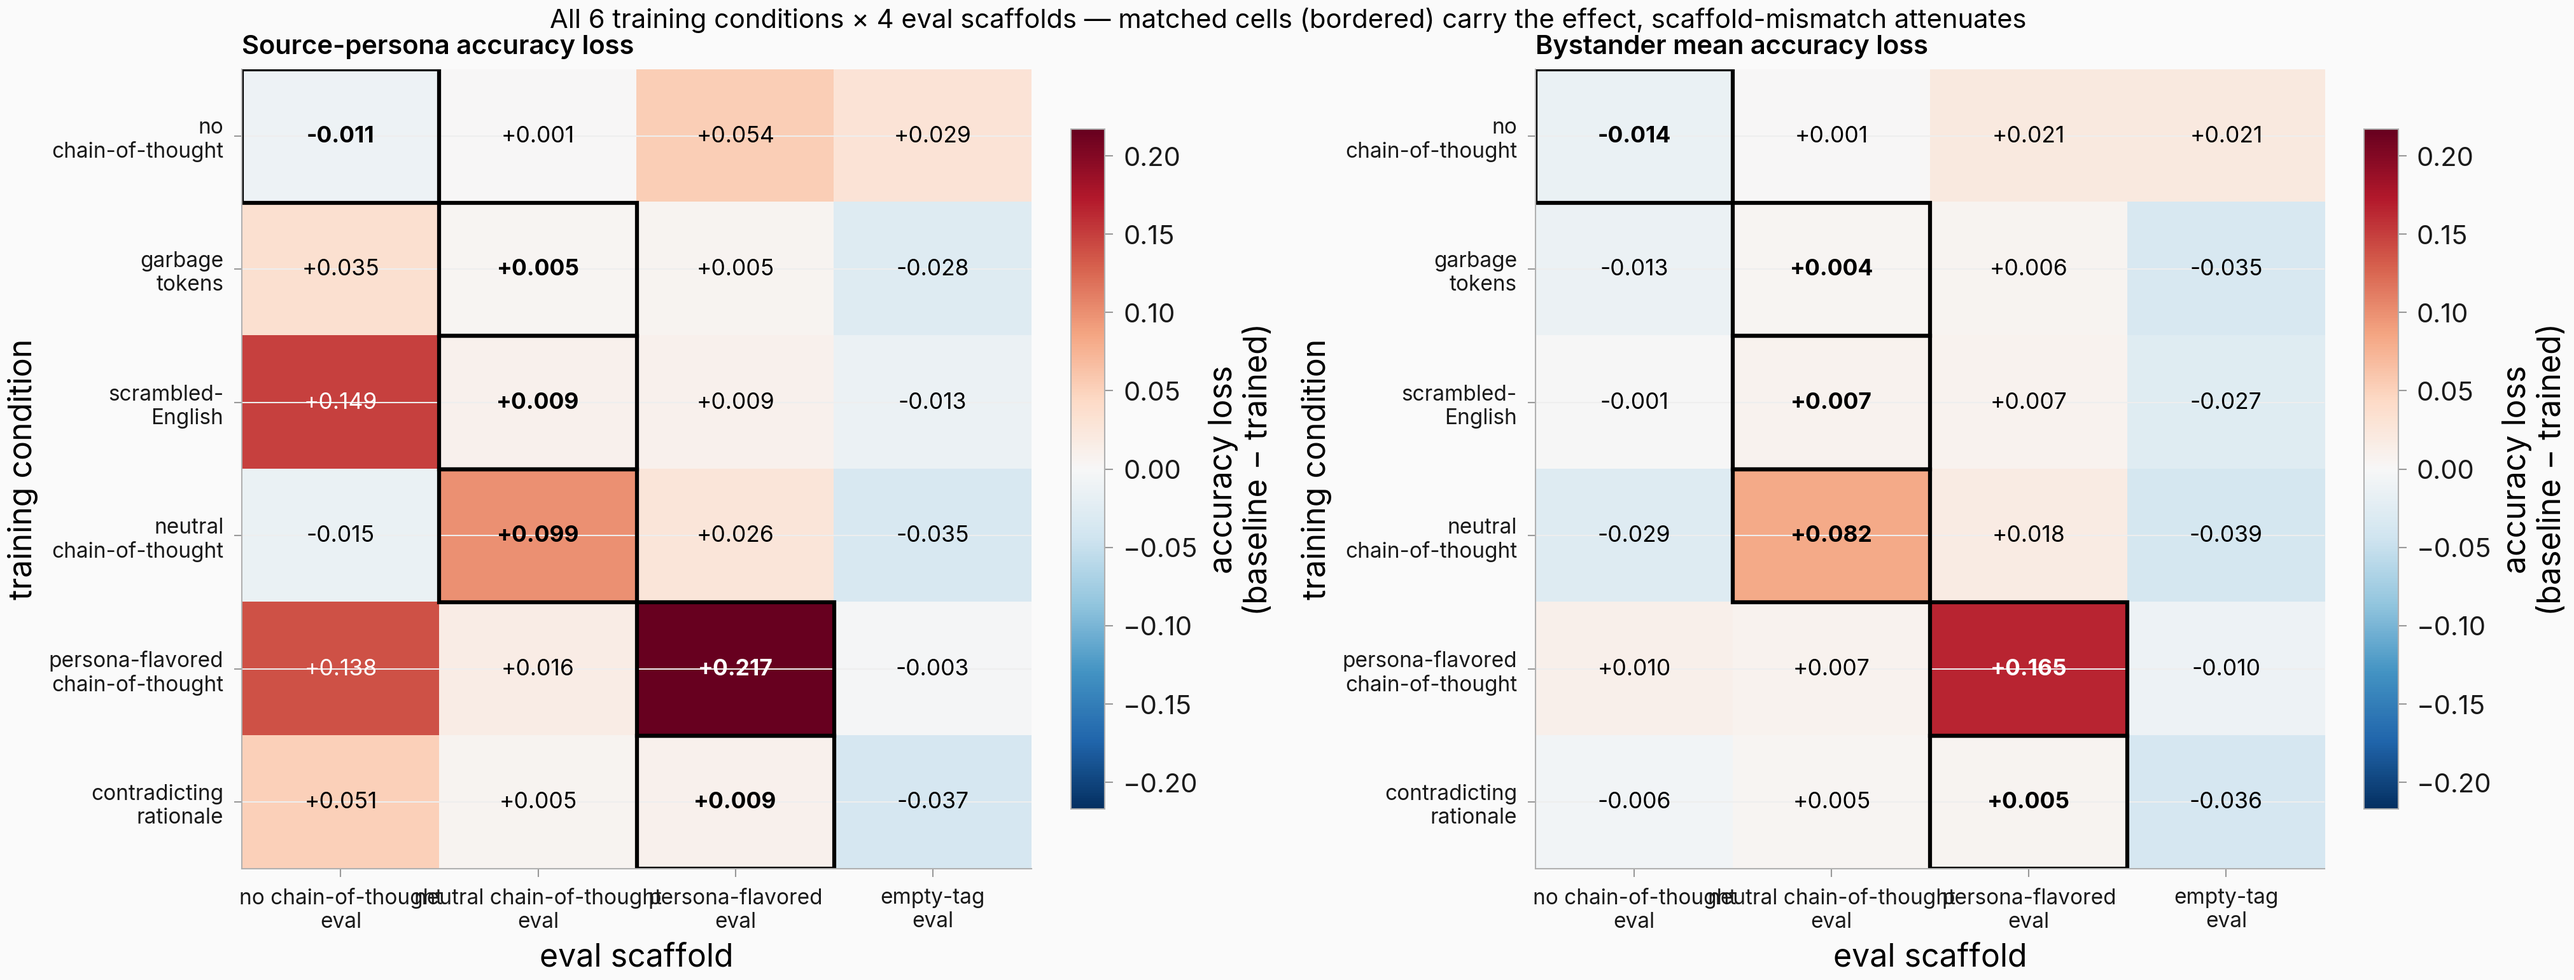
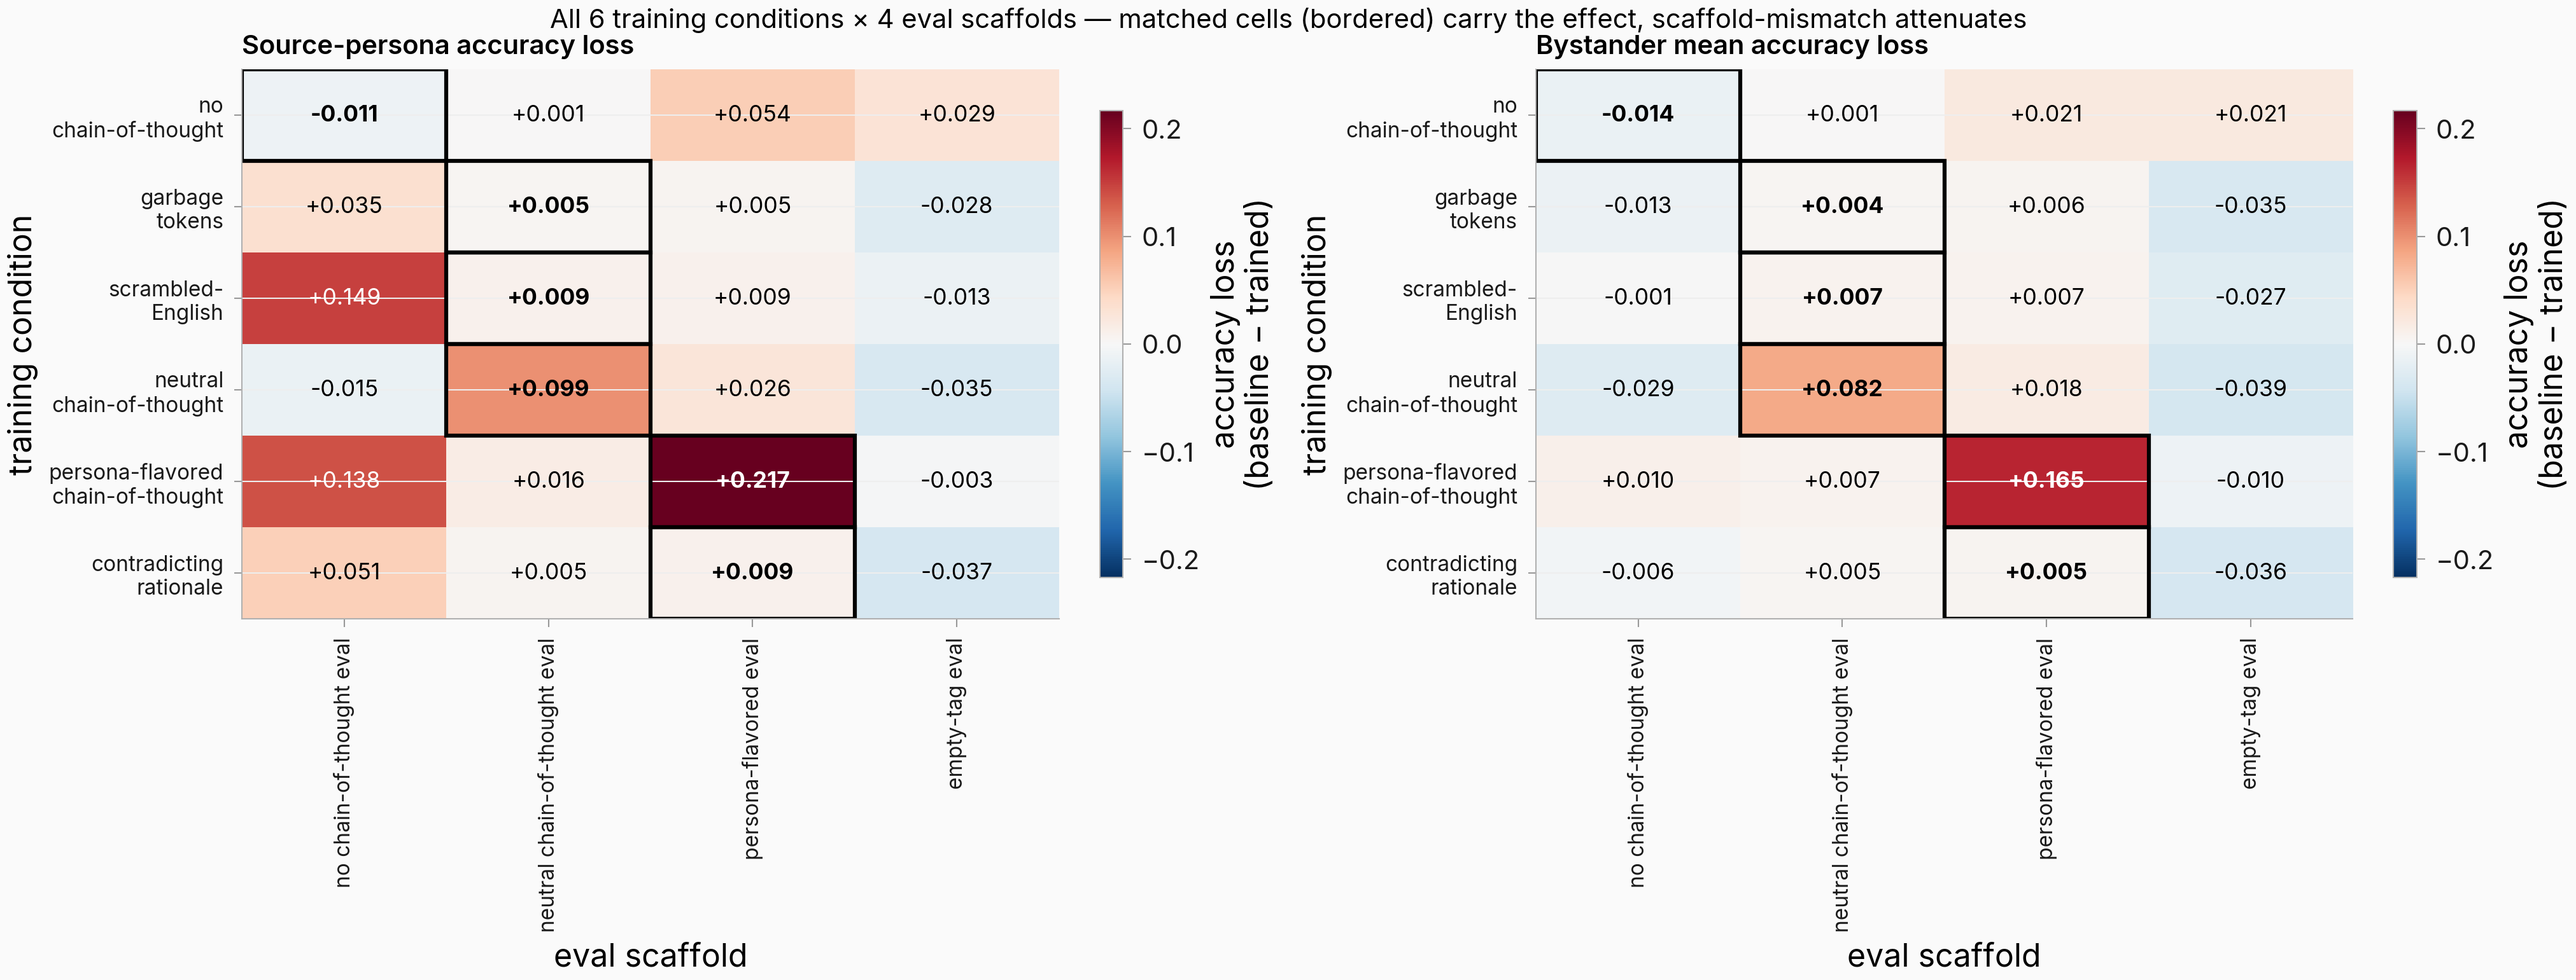
issue #186: vertical x-axis labels on heatmap
Rotate eval-scaffold labels 90° so the four labels don't overlap.

diff --git a/scripts/plot_issue186_train_eval_heatmap.py b/scripts/plot_issue186_train_eval_heatmap.py
@@ -154,7 +154,13 @@ def main():
     ):
         im = ax.imshow(mat, cmap="RdBu_r", vmin=vmin, vmax=vmax, aspect="auto")
         ax.set_xticks(range(len(EVAL_SCAFFOLDS)))
-        ax.set_xticklabels([EVAL_LABELS[s] for s in EVAL_SCAFFOLDS], fontsize=8, rotation=0)
+        ax.set_xticklabels(
+            [EVAL_LABELS[s].replace("\n", " ") for s in EVAL_SCAFFOLDS],
+            fontsize=8,
+            rotation=90,
+            ha="center",
+            va="top",
+        )
         ax.set_yticks(range(len(TRAIN_CONDITIONS)))
         ax.set_yticklabels([TRAIN_LABELS[a] for a in TRAIN_CONDITIONS], fontsize=8)
         ax.set_xlabel("eval scaffold")
